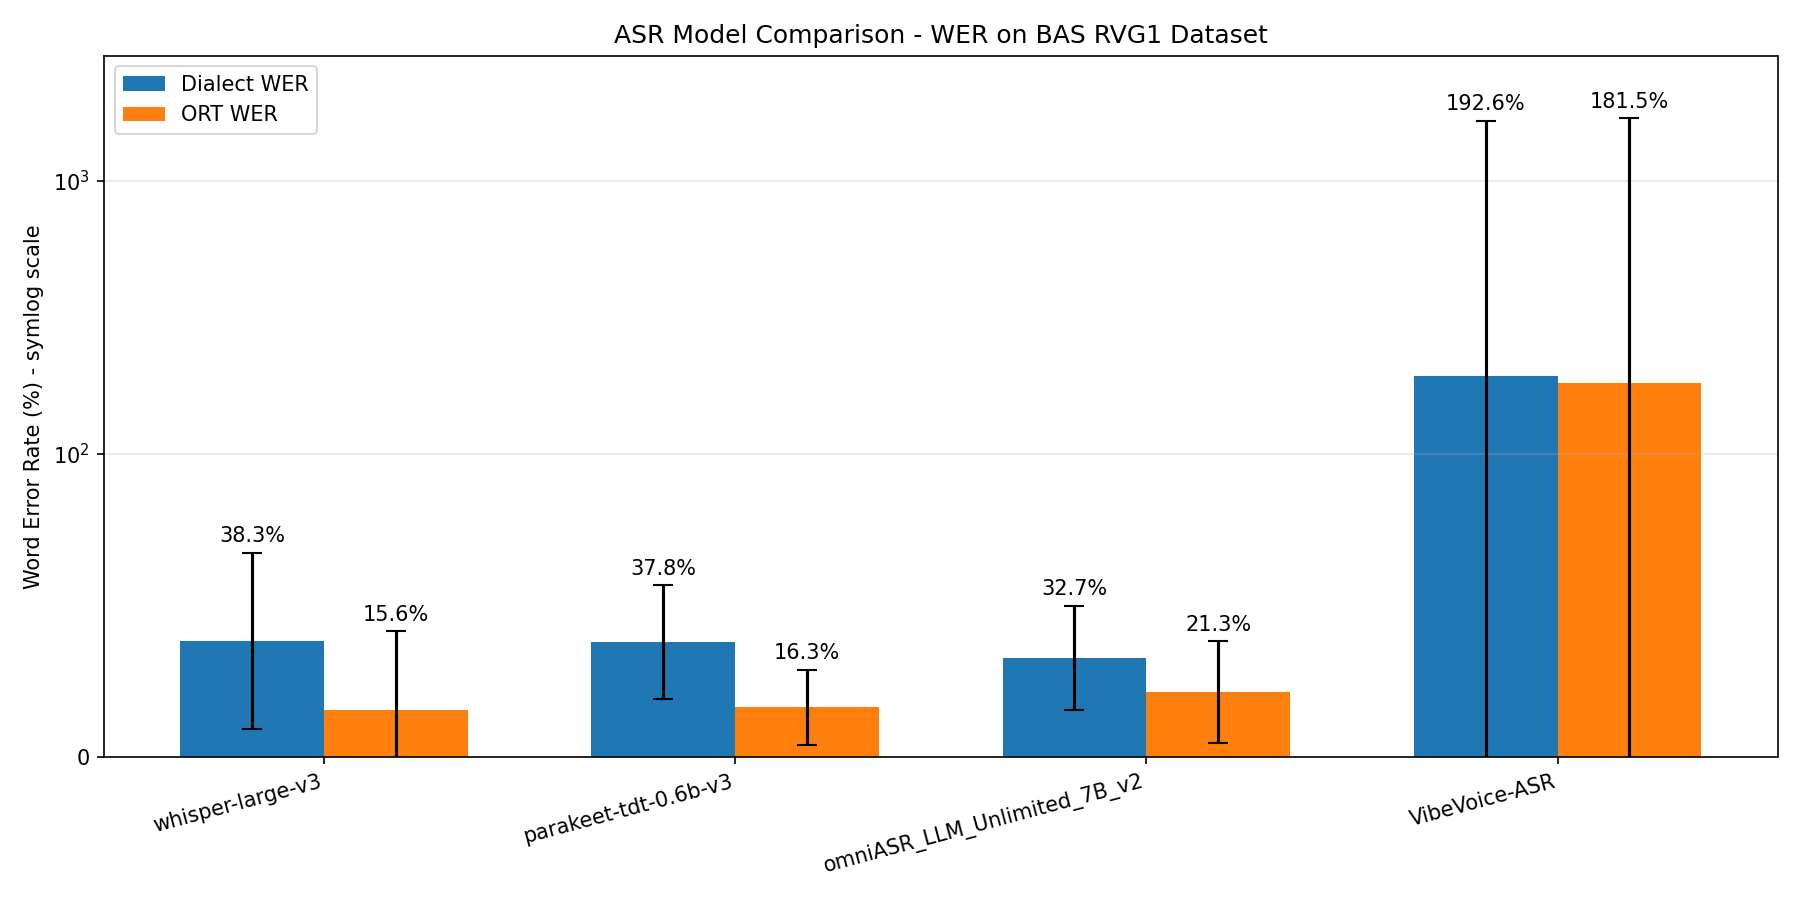
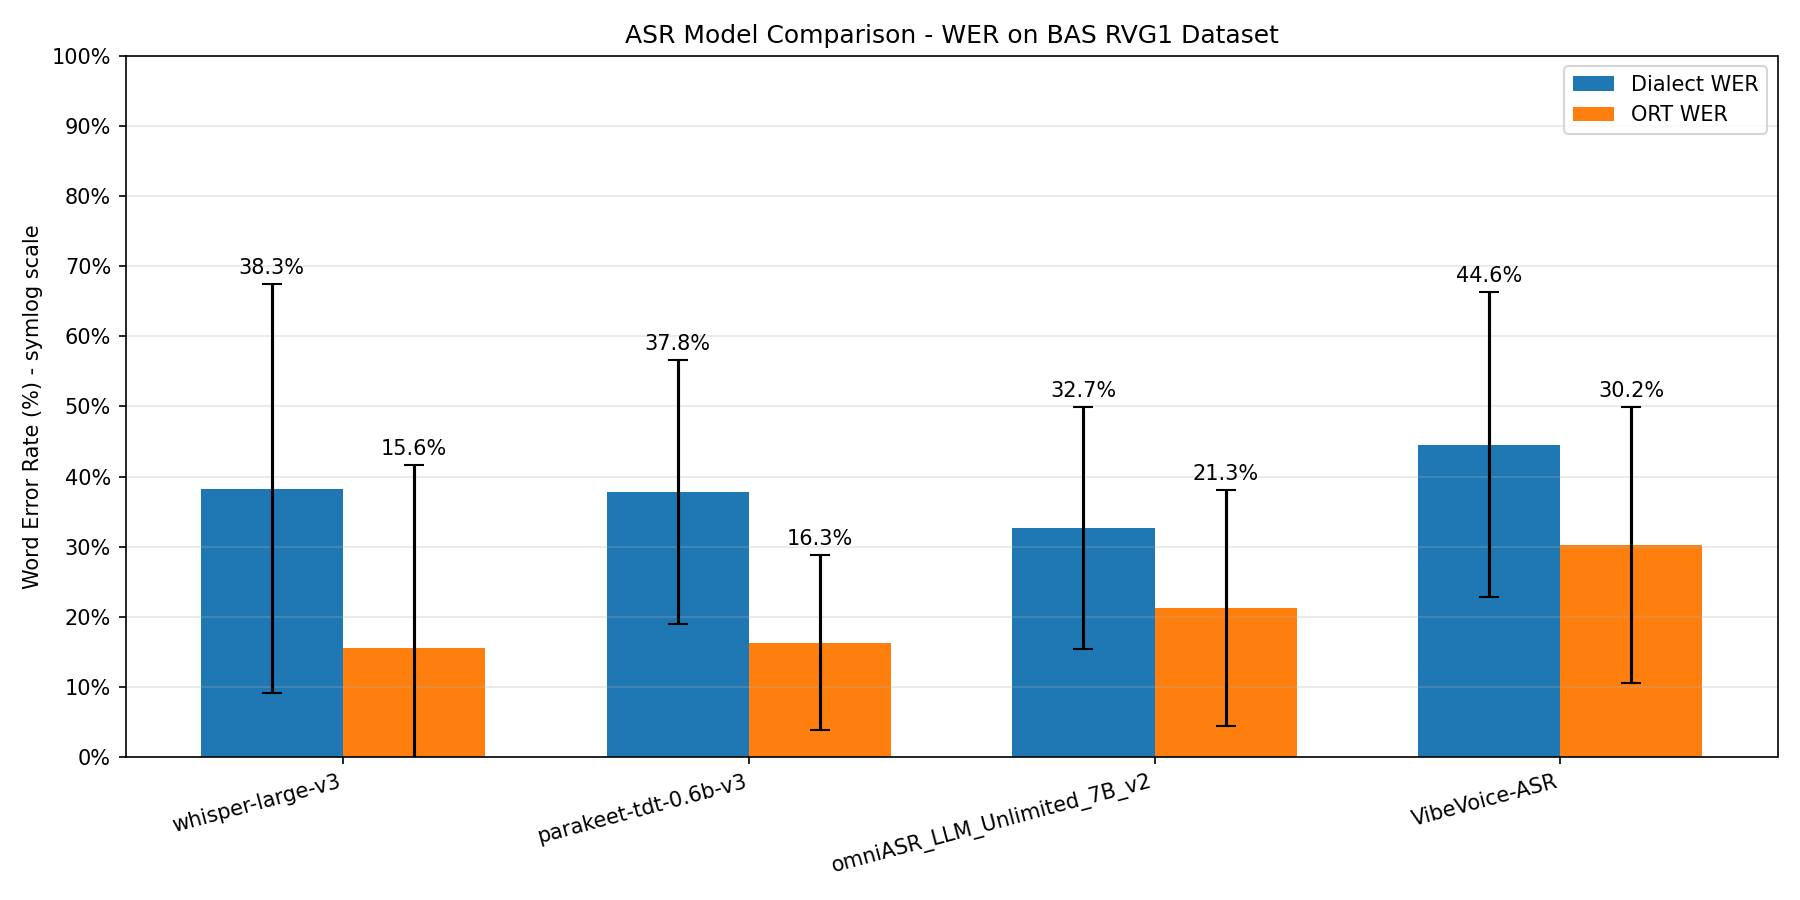
fix(plot): add 10% tick marks on y-axis

diff --git a/scripts/plot_results.py b/scripts/plot_results.py
@@ -67,6 +67,16 @@ def plot_results(metrics: List[Dict], output_path: Path = None):
     ax.set_yscale("symlog", linthresh=100, linscale=1)
     ax.set_ylim(0, None)
 
+    # Y-axis ticks at every 10%
+    max_val = max(max(dialect_wers), max(ort_wers))
+    ticks = list(range(0, 101, 10))  # 0, 10, 20, ..., 100
+    if max_val > 100:
+        # Add ticks for logarithmic region
+        ticks.extend([200, 300, 500, 1000])
+        ticks = [t for t in ticks if t <= max_val * 1.5]
+    ax.set_yticks(ticks)
+    ax.set_yticklabels([f"{t}%" for t in ticks])
+
     # Add value labels
     ax.bar_label(bars1, fmt="%.1f%%", padding=3)
     ax.bar_label(bars2, fmt="%.1f%%", padding=3)
